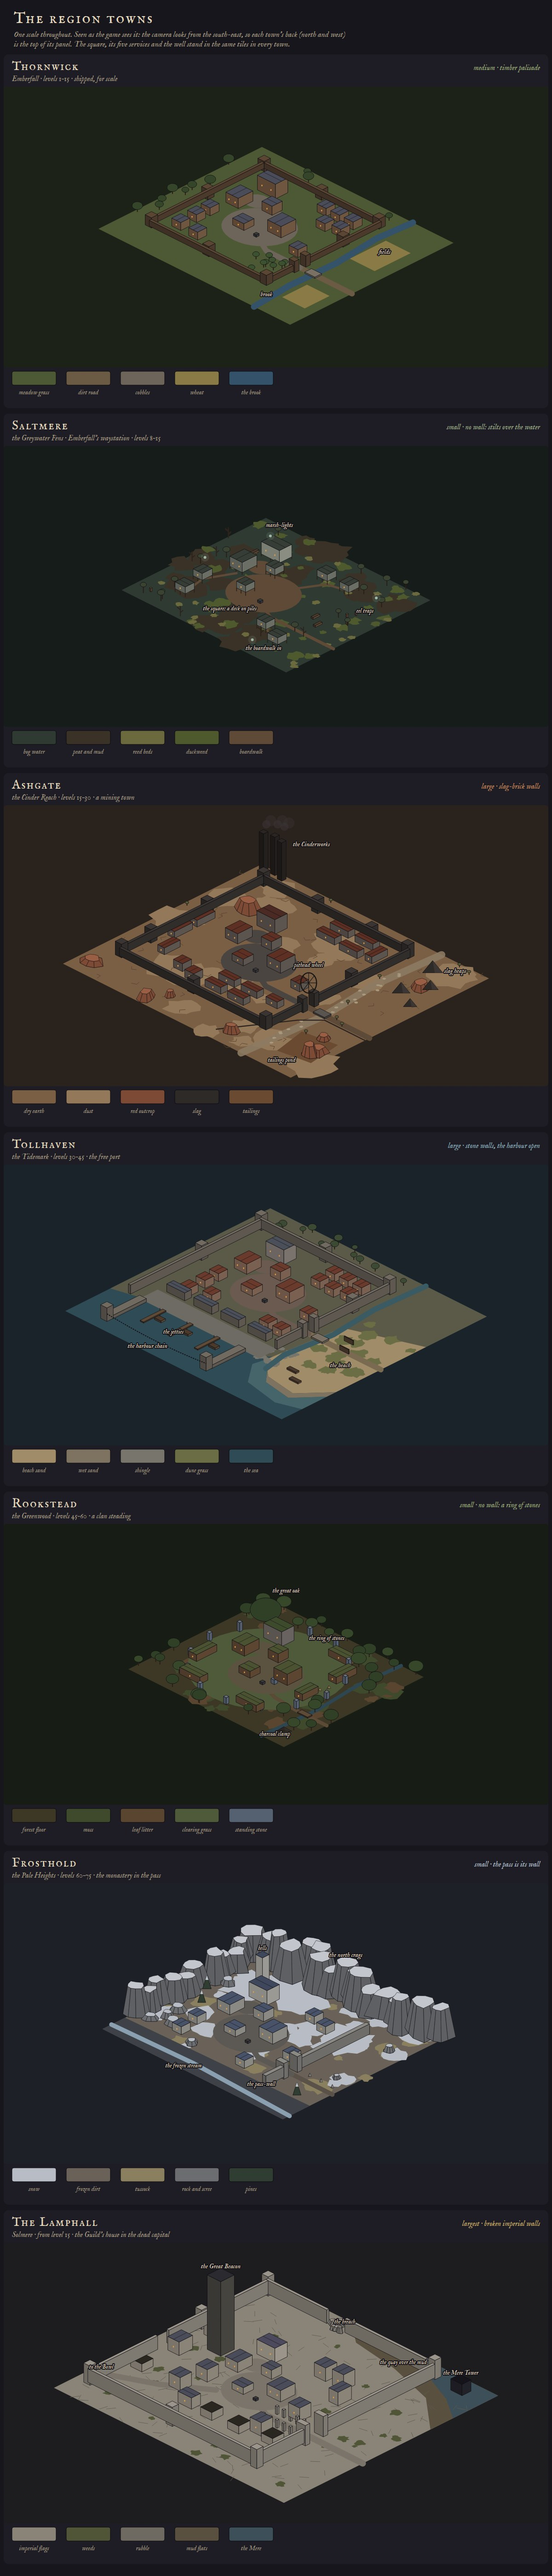
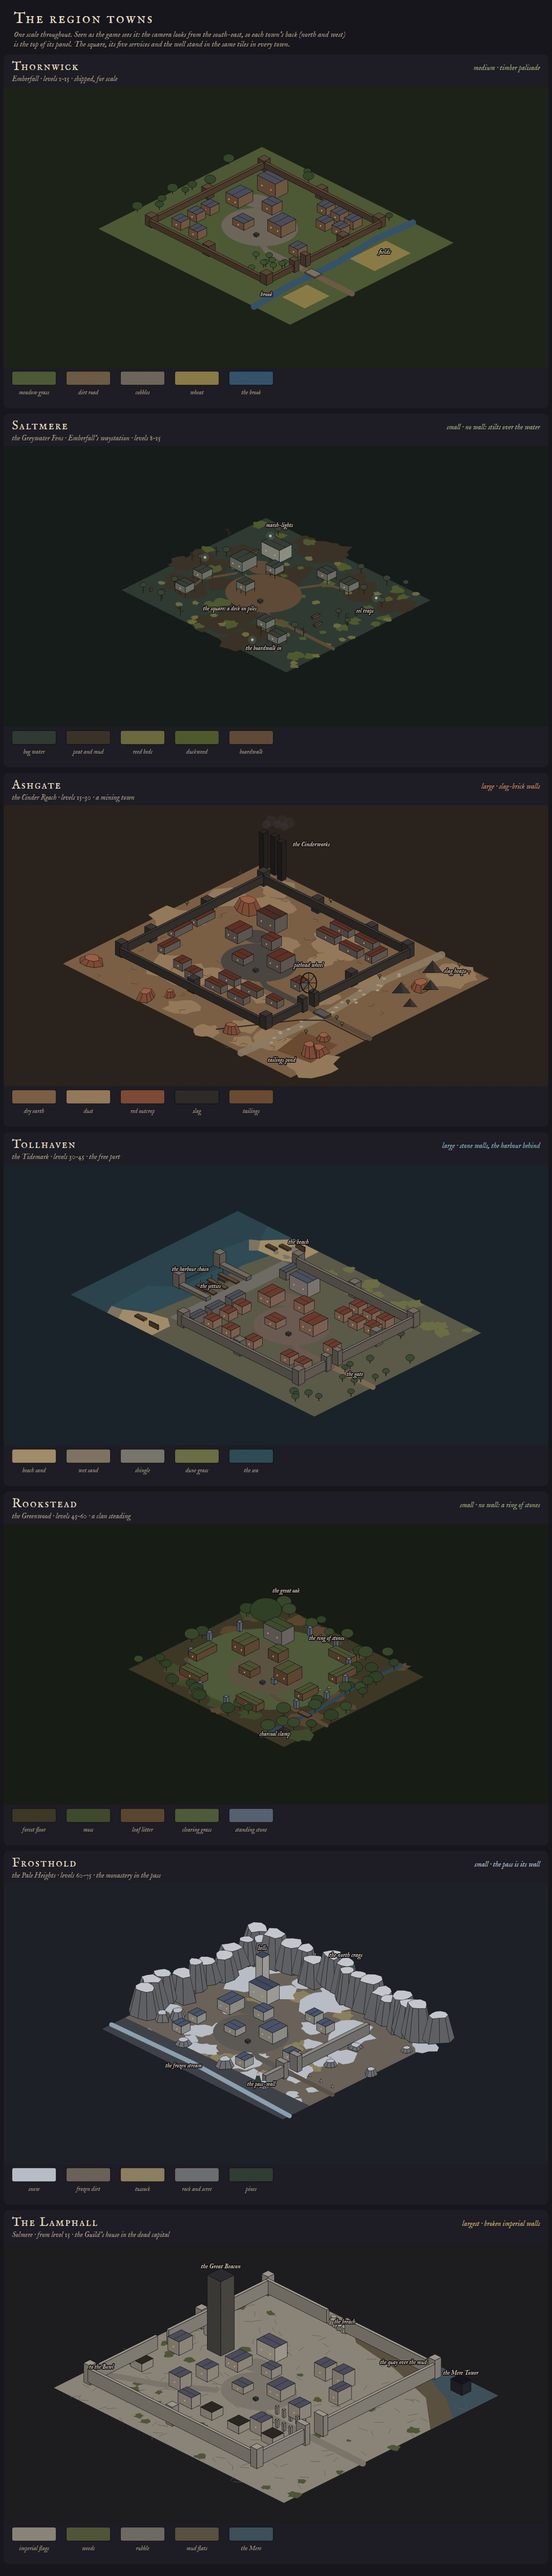
Region towns: walls decided, Frosthold's pass, Tollhaven's harbour behind
The owner: "Walls per city is right, frostholds walls are the mountain
pass, the harbour should be behind the town on the opposite side of
entering the city."

- Decided:
  - large and walled: Ashgate, Tollhaven, the Lamphall;
  - small and open: Rookstead, Frosthold, Saltmere;
  - Thornwick's palisade as shipped;
  - Frosthold's wall is the mountain pass.
- Tollhaven is redrawn with the harbour on the west, opposite the east
  gate. Stone walls stand on the three landward sides, and the quay is
  the town's back edge, with three jetties, two moles and the chain.
  Beaches lie either side of the harbour. The back of a town is the top
  of the screen, so the sea is always in view behind the square. Its
  ground is now 216 × 148 tiles, +30 % against Thornwick (a third of it
  sea).
- Still open: where else swamp ground goes.

npm run check: 300 pass, SMOKE_OK, RENDER_SMOKE_OK.

Claude-Session: https://claude.ai/code/session_015iJE9saRx1hCYJHRMUYeGn

diff --git a/docs/region-towns-proposal.md b/docs/region-towns-proposal.md
@@ -1,6 +1,6 @@
 # The region towns: size, edge and ground
 
-**Proposal, 2026-10-04.** The owner: *"Propose each region's town look, some a bit smaller with no wall, some larger
+**Proposal, 2026-10-04; walls, Frosthold and Tollhaven's harbour decided the same day.** The owner: *"Propose each region's town look, some a bit smaller with no wall, some larger
 with stone walls. The ground can fit based on the map: dry dirt and arid, seaside with docks and a beach, low
 mountain pass with some snow on the ground. Rocky outcrops."*
 
@@ -36,9 +36,9 @@ A player who knows Thornwick's square knows every town's square. Everything roun
 | **Thornwick** (shipped) | Emberfall | medium: 10 houses | timber palisade | meadow grass, farms, a brook | fields, the bridge |
 | **Saltmere** (waystation) | Emberfall: the Fens | **small**: 8 stilt houses | **no wall**: water all round | **bog water, peat and mud, reed beds, duckweed**; boardwalks | **houses on stilts**, the square a deck on piles, punts, eel traps, dead trees, marsh-lights |
 | **Ashgate** | the Reach | **large**: 16 houses in terraces | **slag-brick stone walls**, 10 towers | **dry, cracked earth and dust; red rock outcrops**; black slag | the pithead wheel over the gate, the Cinderworks' chimneys, slag heaps, the ore rails, a tailings pond |
-| **Tollhaven** | the Tidemark | **large**: 13 houses and 4 warehouses | **stone walls landward**, the harbour open to the sea | **beach sand, wet sand, shingle, dune grass**; quay stone | **the quay, three jetties and moored boats**, two moles and the harbour chain, boats drawn up on the beach, net racks |
+| **Tollhaven** | the Tidemark | **large**: 14 houses and 4 warehouses | **stone walls on the landward sides**; **the harbour behind the town**, west, opposite the gate | **beach sand, wet sand, shingle, dune grass**; quay stone | **the quay along the back, three jetties and moored boats**, two moles and the harbour chain, boats drawn up on the beaches either side |
 | **Rookstead** | the Greenwood | **small**: 6 longhouses | **no wall**: a ring of standing stones | forest floor, moss, leaf litter; a grass clearing | the great oak, the moot-stone, skeps, the charcoal clamp; the wood close round |
-| **Frosthold** | the Heights | **small**: 6 houses | **no circuit: the pass is its wall.** Crags behind, a drop in front, one wall across the road | **patchy snow over frozen dirt and tussock; rock outcrops and scree**; snowy pines | the north crags, the bell tower, the pass-wall, the frozen stream, the pilgrims' cairns |
+| **Frosthold** | the Heights | **small**: 6 houses | **no circuit: the mountain pass is its wall** (decided). Crags behind, a drop in front, one wall across the road | **patchy snow over frozen dirt and tussock; rock outcrops and scree**; snowy pines | the north crags, the bell tower, the pass-wall, the frozen stream, the pilgrims' cairns |
 | **The Lamphall** | Solmere | **largest**: 10 tenements and 4 roofless shells | **broken imperial stone walls**, with a breach | imperial flagstones with weeds in the joints; rubble; the Mere's mud flats | **the Great Beacon** over it all, the colonnade, the breach, the quay over the mud, the Mere Tower far out |
 
 The ground area each town paints, against Thornwick's 170 × 145 tiles:
@@ -48,7 +48,7 @@ The ground area each town paints, against Thornwick's 170 × 145 tiles:
 | Rookstead | 138 × 124 | −31 % |
 | Saltmere | 146 × 128 | −24 % |
 | Frosthold | 160 × 148 | −4 % (the crags take a third of it) |
-| Tollhaven | 192 × 182 | +42 % |
+| Tollhaven | 216 × 148 | +30 % (a third of it is sea) |
 | Ashgate | 202 × 176 | +44 % |
 | The Lamphall | 204 × 190 | +57 % |
 
@@ -100,25 +100,27 @@ A mining town that pays well and doesn't ask.
 - **Mood.** Dust on the wind, the shift-bell, the furnace glow behind the north
   wall at night.
 
-### Tollhaven, the Tidemark: large, stone walls, the sea
+### Tollhaven, the Tidemark: large, stone walls, the harbour behind
 
 The League's largest port, where even the harbour chain takes a toll.
-- **Edge.** Grey stone walls with round towers on the landward sides: the back (north and west, a backdrop behind
-  the temple) and the east, with the gate. **The south is the harbour**, closed by two moles and a chain between
-  their towers.
+- **Edge.** Grey stone walls with round towers on the three landward sides, with the gate in the east wall on the
+  road in. **The harbour is behind the town**, on the west, opposite the gate (the owner). The quay is the town's
+  edge there, and two moles close the harbour, with the chain between their towers.
+- **Why behind works.** The back of a town is the top of the screen, so **the sea is always in view behind the
+  square**: the jetties, the masts and the chain towers stand beyond the temple and the tavern. The front stays low
+  for the walk in, as the rules want.
 - **Ground.**
   - Brick and cobble in the town, and wet quay stone along the water.
-  - Outside the east gate, **a beach**: sand, a band of darker wet sand at the tide line, shingle where the creek
-    comes down, and dune grass on the rise.
+  - **Beaches** either side of the harbour, outside the north and south walls: sand, a band of darker wet sand at
+    the tide line, and shingle.
+  - Dune grass on the rise north of the town; scrub and a few trees by the road in.
 - **Buildings.**
   - Brick and tile in warm red-browns.
-  - **Warehouses** in a row along the quay, the Speaker's counting-house among them.
+  - **Warehouses** along the quay, the Speaker's counting-house among them.
 - **The water.**
-  - **The quay** runs the length of the town, with **three wooden jetties** off it and boats tied up.
-  - Out on the beach, boats are drawn up on the sand and nets are hung to dry.
-  - The creek runs under the bridge to the sea.
-- **Mood.** Fog and rain (the coast's weather), gulls on every ridge, the chain's creak, rigging. The water catches
-  the lamps at night.
+  - **The quay** runs the length of the town's back, with **three wooden jetties** off it and boats tied up.
+  - On the beaches, boats are drawn up on the sand and nets are hung to dry.
+- **Mood.** Fog and rain, gulls on every ridge, the chain's creak, rigging. The water catches the lamps at night.
 
 ### Rookstead, the Greenwood: small, no wall
 
@@ -258,19 +260,19 @@ direction).
 
 The `?scene=town&region=` previews for `fens`, `reach` and `heights` stay until their towns are built.
 
-## For the owner
+## Decided
 
-1. **Sizes and edges:**
-   - large and walled: Ashgate, Tollhaven and the Lamphall;
-   - small and open: Rookstead and Frosthold;
-   - medium: Thornwick.
+The owner (2026-10-04):
+- **Walls per town are right:**
+  - large and walled: Ashgate, Tollhaven and the Lamphall;
+  - small and open: Rookstead, Frosthold and Saltmere;
+  - Thornwick's timber palisade as shipped.
+- **Frosthold's walls are the mountain pass:** crags behind, the drop in front, one wall across the road.
+- **Tollhaven's harbour is behind the town**, on the side opposite the gate (drawn so above).
 
-   Is that the split you want?
-2. **Frosthold:** the pass as its wall (as drawn), or a small stone circuit like a fortress?
-3. **Tollhaven's harbour:** in front (south, as drawn), where you walk past it on the way in but the menu bar
-   covers it in the square? Or behind (north-west), where the sea is always on screen behind the temple but the
-   jetties stand behind the houses?
-4. **Swamp, where else?** It's drawn for Saltmere, where the Fens already are. The same ground could also go to:
+## Still open
+
+1. **Swamp, where else?** It's drawn for Saltmere, where the Fens already are. The same ground could also go to:
    - the Greenwood's south edge, with Hollin Ford as a fen ford;
    - a salt marsh behind Tollhaven's beach;
    - the Fens' sites (the Sickpools, the approach to the Drowned Abbey).

diff --git a/docs/README.md b/docs/README.md
@@ -30,7 +30,7 @@ the header of each status doc for what it replaces.
 | [sound-plan.md](./sound-plan.md) | Sound for the game: footsteps on the feet (stride-synced, by ground and weight), swings and blows, foes' cries as they arrive and fall (goblins' screech and "hah!", the dead rising), dungeon drips, the Vale's creek, birds and owls by the time of day; the menu's Sound panel (volume, and a slider each for music, ambient, attacks and spells, footsteps, foes); birds, owls and drips as single calls ≥ 10 s apart. Raw WebAudio (A15), Flare's CC-BY-SA sounds. The sound critic passes | **Implemented** S0–S3 (2026-10-03): `src/audio/`, `render/anim.js` (step, swing), `ui/title.js` (Sound), `tools/audio/`, `assets/audio/`; S4 to do |
 | [weather-icon-mockup.md](./weather-icon-mockup.md) | A weather icon by the sky dial: sunny, partly sunny, fog, rain, snow and wind, by day and night, in the real top bar; icon alone (recommended) or with its word; where "partly sunny" would come from | **Proposal** (2026-10-04), awaiting the owner |
 | [world-map-proposal.md](./world-map-proposal.md) | The Old Provinces: Emberfall as one corner of the fallen empire's island-continent. Five regions in level bands (Emberfall 1–15, the Cinder Reach, the Tidemark, the Greenwood, the Pale Heights and the Throne to 75), each with its own main story, people, foes and skills; Solmere, the dead capital, with the Arena (the Bowl), the endless tower (the Mere Tower) and the Guild's Great Beacon; the Guild's wall map; draft 2 takes in a game-design and a D&D-writer critic pass | **Proposal** (draft 10, 2026-10-04): the owner's answers in; the Greenwood (was the Tithewood); the Great Beacon ships with the next region; a count of lamps broken and souls freed (a future leaderboard); the endless tower is the Mere Tower, older than the empire; pale iron from the Ember's crater (a fallen star, only hinted); the Lantern Guild sworn to break every lamp that holds the ashen and let no new one be lit; five factions drive the story (the Lantern Guild, the Cinder Cult, the Ashbound, the Grey Sisters, the Redhand), the rest minor players; the sacrifice and the Ashbound as captives, the Canticle and the Voices, the factions (mission, hook, objectives) and the fuel set out; canon changes listed, not yet made |
-| [region-towns-proposal.md](./region-towns-proposal.md) | Each region's town: its size, its edge (no wall, a ring of stones, the pass, timber, stone walls) and its ground (arid dirt and outcrops, beach and docks, snow in a mountain pass, swamp and stilts, forest floor, imperial flagstones); the square the same everywhere; drawn at one scale (`tools/worldmap/towns.mjs`) | **Proposal** (2026-10-04): for the owner's pick |
+| [region-towns-proposal.md](./region-towns-proposal.md) | Each region's town: its size, its edge (no wall, a ring of stones, the pass, timber, stone walls) and its ground (arid dirt and outcrops, beach and docks, snow in a mountain pass, swamp and stilts, forest floor, imperial flagstones); the square the same everywhere; drawn at one scale (`tools/worldmap/towns.mjs`) | **Proposal** (2026-10-04): walls per town, Frosthold's pass and Tollhaven's harbour behind the town decided; where else swamp goes still open |
 | [sound-critic-pass-1.md](./sound-critic-pass-1.md) | Sound critic pass 1: the silence filled, then measured. A cue's variants were 12.6 dB apart (now 0.8), the goblin's screech harsh at 2–5 kHz (now −6.5 dB there), the Vale nearly silent (−35 → −33 dBFS); a fight's loudest second −21 dBFS at the moderate default, peaks −9; footfalls on the contacts, 20 in 10 cycles; 692 KB | **Current** (2026-10-03) |
 | [art-critic-warren.md](./art-critic-warren.md) | The Scrag Warren's door: a black box beside a heap of holed cones, side-on to the track and shorter than the party. Now an old lead adit cut into a turfed shoulder: a timbered portal a head taller than a man, a tunnel going back into the dark, rusted rails, an upturned ore tub, a grassed spoil heap. The holes were three r169 dropping half of a multi-row cone's triangles (the Deepdelve mine's are fixed too) | **Implemented** (2026-10-03): `tools/actor-lab/buildkit.js` (`warren`, `solidCone`, `faceted`), `env.json`; `src/sim/outdoor.js` |
 | [art-critic-trees.md](./art-critic-trees.md) | The trees' lumps: pass 11d's faceted icosahedra lit as gem plates (38 % of a broadleaf crown). Gone; the crowns carry a two-scale leaf pattern baked into every pass (clusters lit on top and shaded beneath, toned leaves, the outline cut into leaves), the pines a finer one; footprints and the world unchanged, the dusk kept (−3 %). The cows' idle: tail swishes and head moves, each on its own timeline | **Current** (2026-10-04): `tools/actor-lab/envlab.js` (leafPass), `buildkit.js`, `src/render/beasts.js` |
